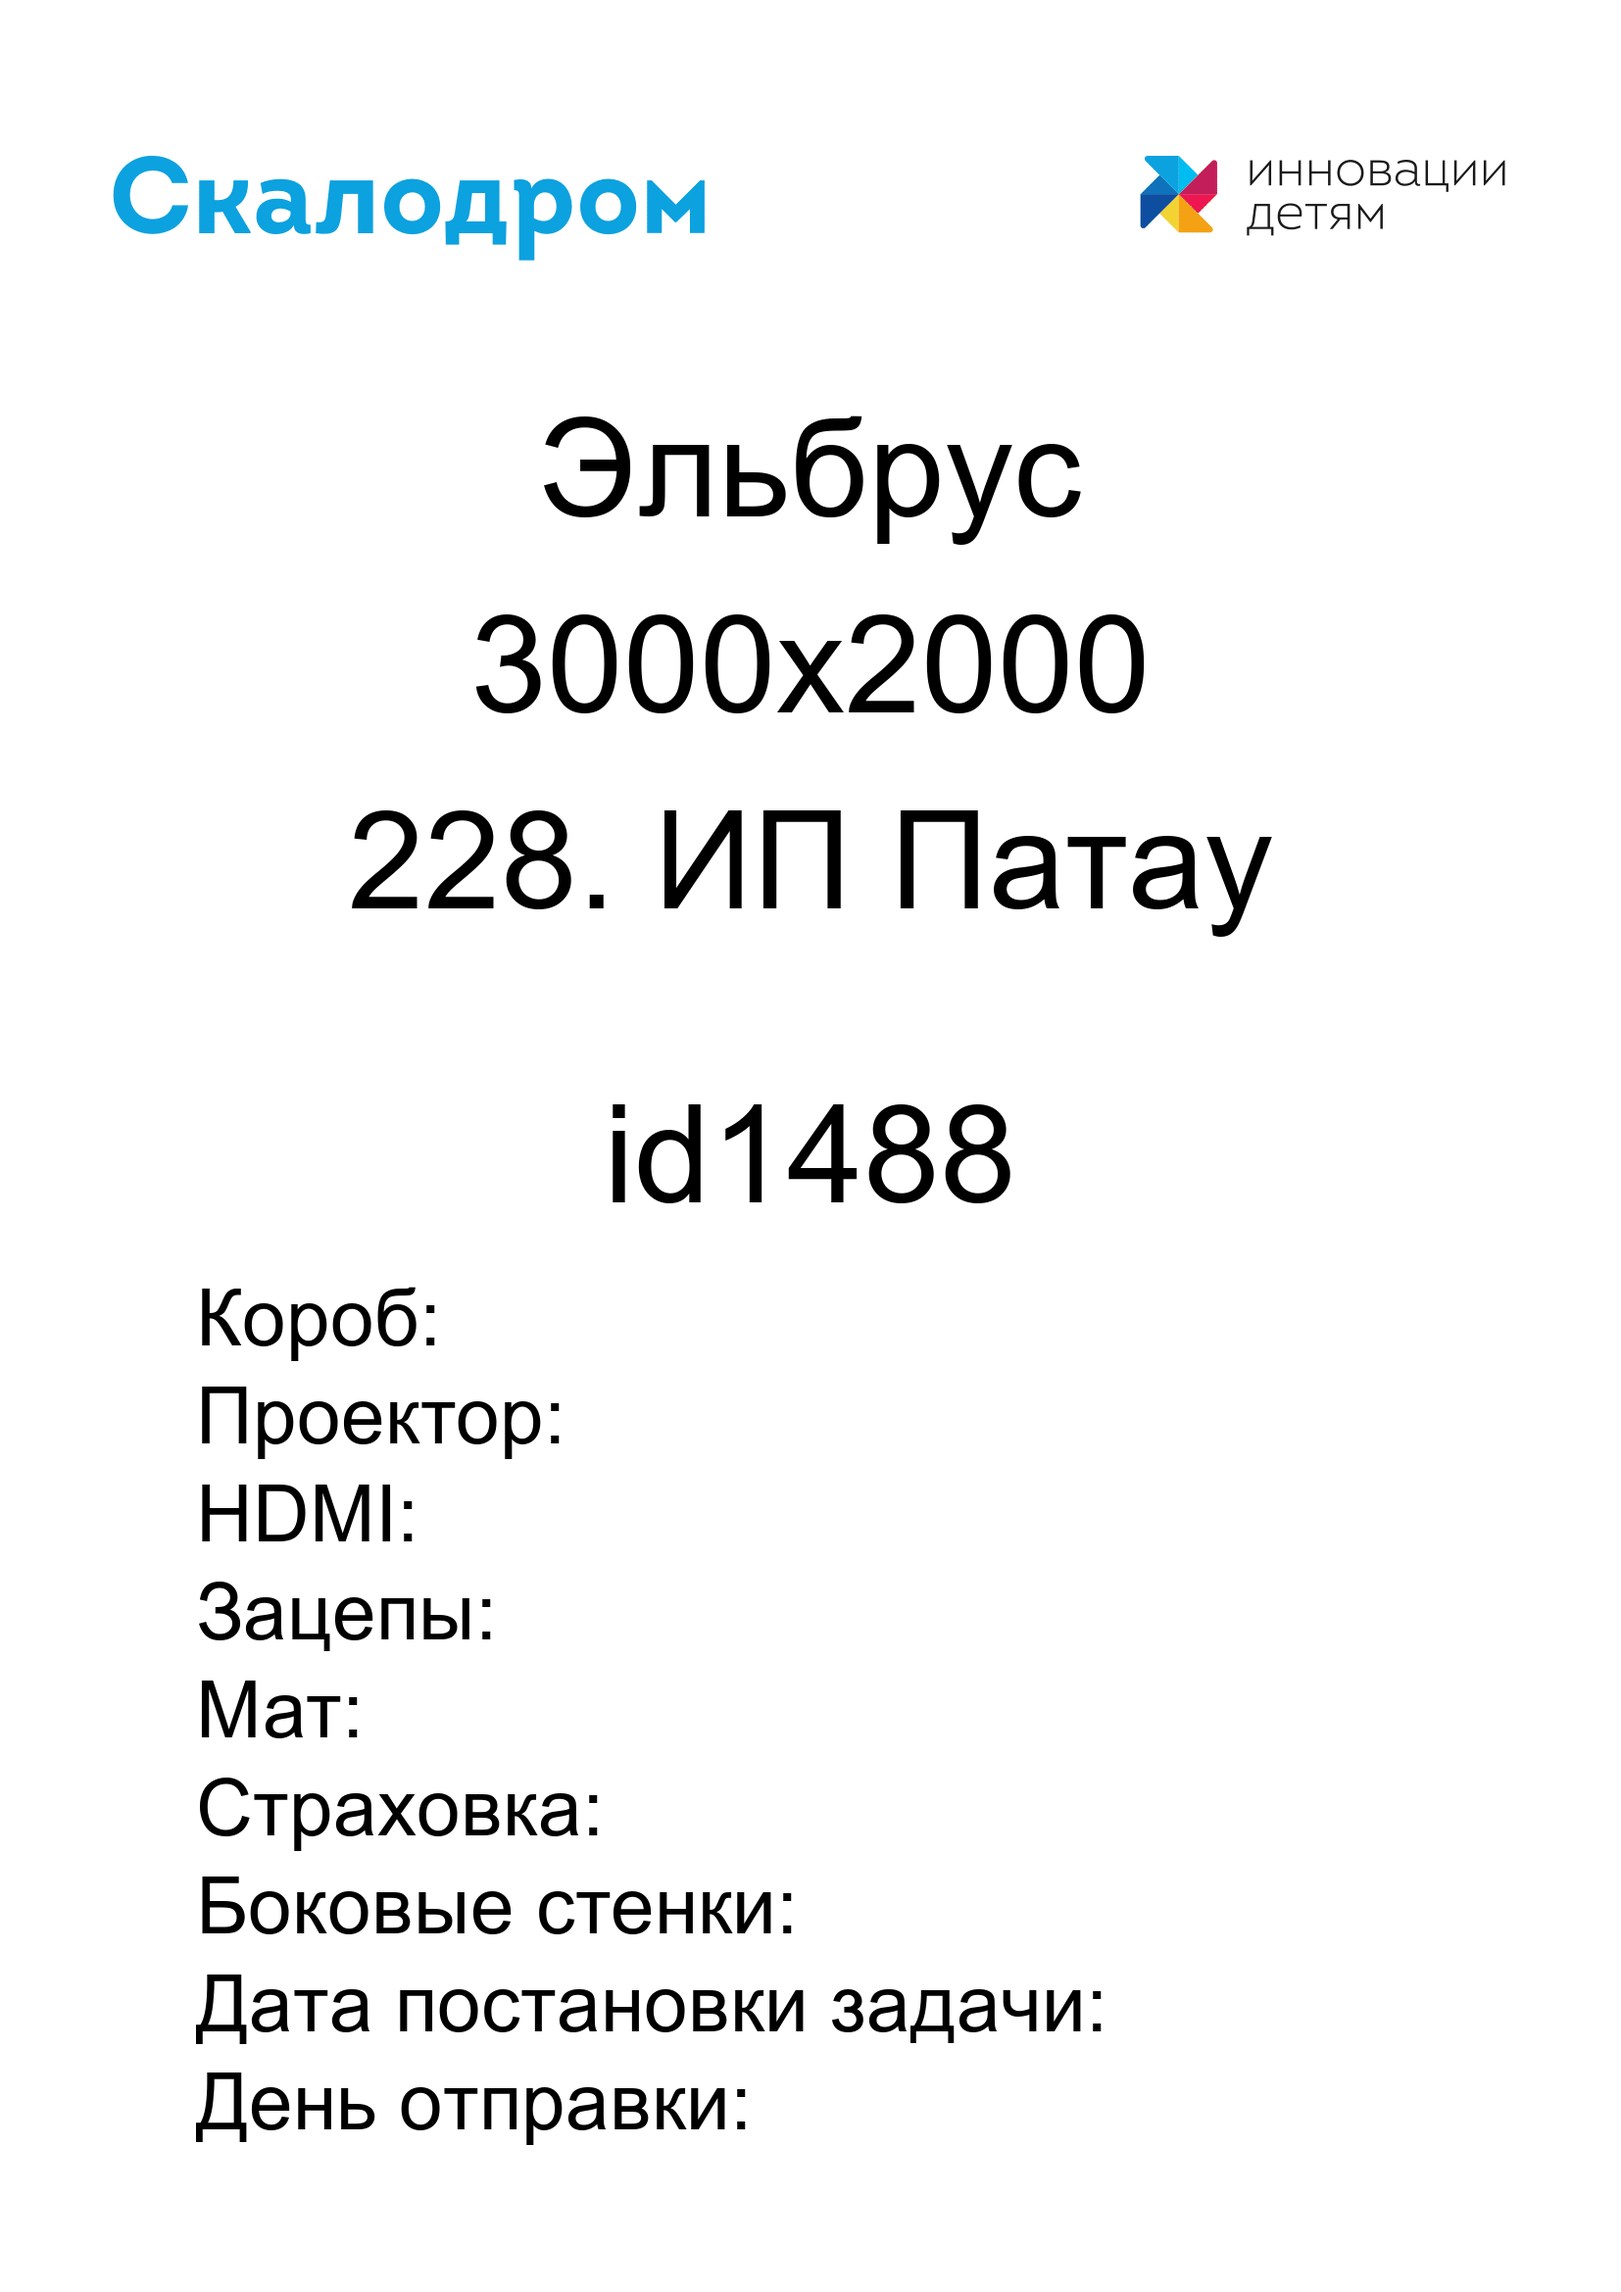
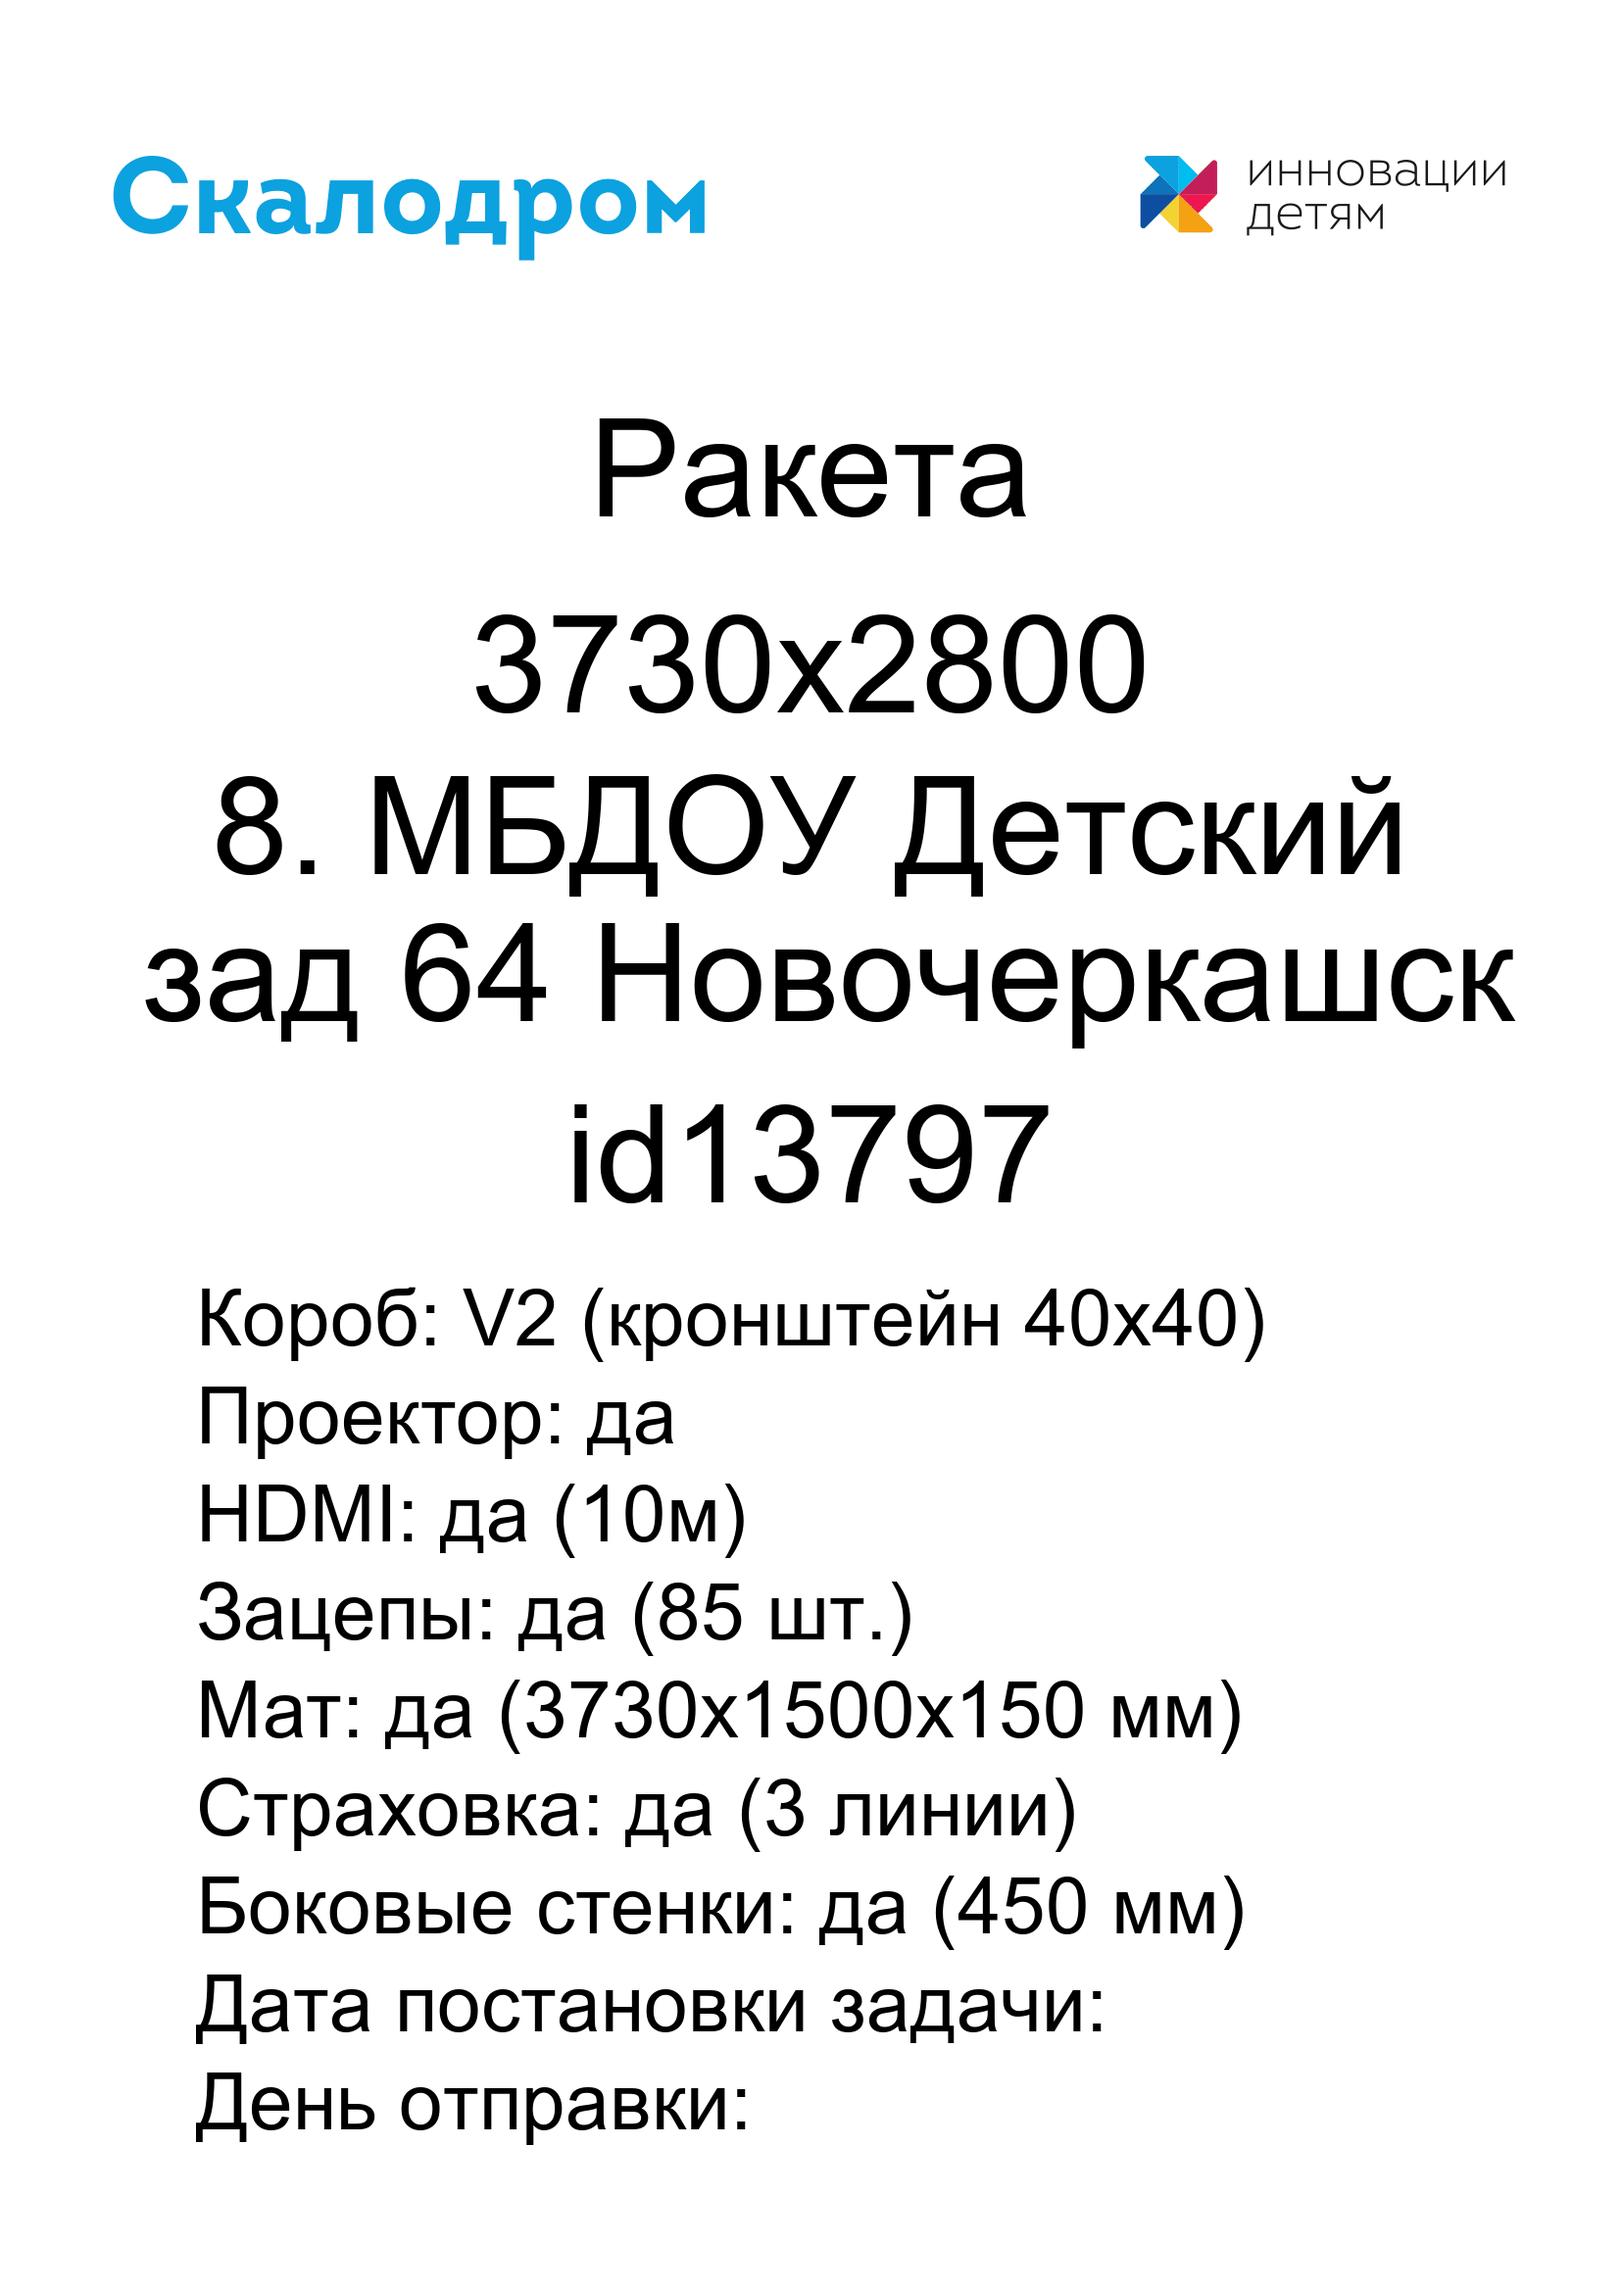
Finally making the title

diff --git a/title_maker.py b/title_maker.py
@@ -1,0 +1,104 @@
+from PIL import Image, ImageDraw, ImageFont
+from window_app import ts_data
+
+sample_image_width = 1654
+sample_image_height = 2339
+sample_image = Image.new('RGBA', (sample_image_width, sample_image_height), 'white')
+header_image = Image.open('header.png')
+sample_image.paste(header_image)
+
+
+def split_text(text):
+    modifier = 1
+    for i in range(len(text)//2):
+        modifier *= -1
+        if text[len(text)//2 + i * modifier] == ' ':
+            text0 = text[:len(text)//2 + i * modifier]
+            text1 = text[len(text)//2 + i * modifier:]
+            return text0, text1
+    return 0
+
+
+def create_centered_text(text, font_name, font_size, depth):
+    global sample_image
+    current_image_drawing = ImageDraw.Draw(sample_image)
+    current_font = ImageFont.truetype(font_name, size=font_size)
+    current_image_drawing.textsize(text, font=current_font)
+    text_w, text_h = current_image_drawing.textsize(text, font=current_font)
+    if text_w > sample_image_width:
+        text0, text1 = split_text(text)
+        depth0 = depth - font_size//2 + 35
+        depth1 = depth + font_size//2 + 45
+        create_centered_text(text0, font_name, font_size, depth0)
+        create_centered_text(text1, font_name, font_size, depth1)
+        return None
+    current_image_drawing.text((sample_image_width/2 - text_w/2, depth), text=text, font=current_font, fill='black')
+    sample_image.save('sample_image.png')
+    return None
+
+
+def create_bottom_text(text, font_name, font_size, depth):
+    global sample_image
+    current_image_drawing = ImageDraw.Draw(sample_image)
+    current_font = ImageFont.truetype(font_name, size=font_size)
+    current_image_drawing.textsize(text, font=current_font)
+    current_image_drawing.text((200, depth), text=text, font=current_font, fill='black')
+    sample_image.save('sample_image.png')
+    return None
+
+
+if ts_data['korob'] == 'V1':
+    ts_data['korob'] = 'V1 (кронштейн 60х60)'
+    ts_data['projector'] = 'нет'
+if ts_data['korob'] == 'V2':
+    ts_data['korob'] = 'V2 (кронштейн 40х40)'
+    ts_data['projector'] = 'да'
+    ts_data['hdmi'] = 'да (10м)'
+else:
+    ts_data['hdmi'] = 'нет'
+if ts_data['korob'] == 'V2-':
+    ts_data['korob'] = 'V2 (кронштейн 40х40)'
+    ts_data['projector'] = 'нет'
+    ts_data['hdmi'] = 'нет'
+
+if ts_data['hooks'] != '0':
+    ts_data['hooks'] = 'да (' + ts_data['hooks'] + ' шт.)'
+else:
+    ts_data['hooks'] = 'нет'
+
+if ts_data['matt'] == 1:
+    ts_data['matt'] = 'да (' + ts_data['size'].split('x')[0] + 'x1500x150 мм)'
+else:
+    ts_data['matt'] = 'нет'
+if ts_data['insurance'] == 0:
+    ts_data['insurance'] = 'нет'
+else:
+    ins_line_end = 'INSURANCE_ERROR!'
+    if 1 < ts_data['insurance'] < 5:
+        ins_line_end = 'линии'
+    elif ts_data['insurance'] == 1:
+        ins_line_end = 'линия'
+    elif ts_data['insurance'] >= 5:
+        ins_line_end = 'линий'
+    ts_data['insurance'] = 'да (' + str(ts_data['insurance']) + ' ' + ins_line_end + ')'
+
+if ts_data['walls'] == 0:
+    ts_data['walls'] = 'нет'
+else:
+    ts_data['walls'] = 'да (' + str(ts_data['walls']) + ' мм)'
+
+
+create_centered_text(ts_data['wall_type'], 'arial.ttf', 140, 400)
+create_centered_text(ts_data['size'], 'arial.ttf', 140, 600)
+create_centered_text(ts_data['deal_name'], 'arial.ttf', 140, 800)
+create_centered_text('id' + ts_data['deal_id'], 'arial.ttf', 140, 1100)
+
+create_bottom_text('Короб: ' + ts_data['korob'], 'arial.ttf', 80, 1300)
+create_bottom_text('Проектор: ' + ts_data['projector'], 'arial.ttf', 80, 1400)
+create_bottom_text('HDMI: ' + ts_data['hdmi'], 'arial.ttf', 80, 1500)
+create_bottom_text('Зацепы: ' + ts_data['hooks'], 'arial.ttf', 80, 1600)
+create_bottom_text('Мат: ' + ts_data['matt'], 'arial.ttf', 80, 1700)
+create_bottom_text('Страховка: ' + ts_data['insurance'], 'arial.ttf', 80, 1800)
+create_bottom_text('Боковые стенки: ' + ts_data['walls'], 'arial.ttf', 80, 1900)
+create_bottom_text('Дата постановки задачи: ', 'arial.ttf', 80, 2000)
+create_bottom_text('День отправки: ', 'arial.ttf', 80, 2100)

diff --git a/window_app.py b/window_app.py
@@ -13,6 +13,7 @@ def submit_ts():
     ts_data['hooks'] = hooks_value.get()
     ts_data['matt'] = matt_value.get()
     ts_data['insurance'] = insurance_value.get()
+    ts_data['walls'] = walls_value.get()
     Label(window, text='Готово. Можете закрыть окно или переделать.').place(relx=0.3, y=230)
     Label(window, text='В текущей директории созданы нужные файлы').place(relx=0.3, y=250)
 
@@ -51,7 +52,7 @@ korob_rad1 = Radiobutton(window, text='V1', value='V1', variable=korob_value).gr
 korob_rad2 = Radiobutton(window, text='V2', value='V2', variable=korob_value).grid(column=2, row=4)
 korob_rad3 = Radiobutton(window, text='V2 без проектора', value='V2-', variable=korob_value).grid(column=3, row=4)
 
-hooks_value = IntVar()
+hooks_value = StringVar()
 hooks_lbl = Label(window, text='Зацепов').grid(column=0, row=5)
 hooks_txt = Entry(window, width=3, textvariable=hooks_value).grid(column=1, row=5)
 
@@ -68,7 +69,7 @@ insurance_txt = Entry(window, width=3, textvariable=insurance_value).grid(column
 
 walls_value = IntVar()
 walls_lbl = Label(window, text='Боковые стенки').grid(column=0, row=8)
-walls_lbl1 = Label(window, text='м').grid(column=2, row=8)
+walls_lbl1 = Label(window, text='мм').grid(column=2, row=8)
 walls_txt = Entry(window, width=3, textvariable=walls_value).grid(column=1, row=8)
 
 footer_note_lbl1 = Label(window, text='(если отсутствует - введите 0)').grid(column=3, row=7)
